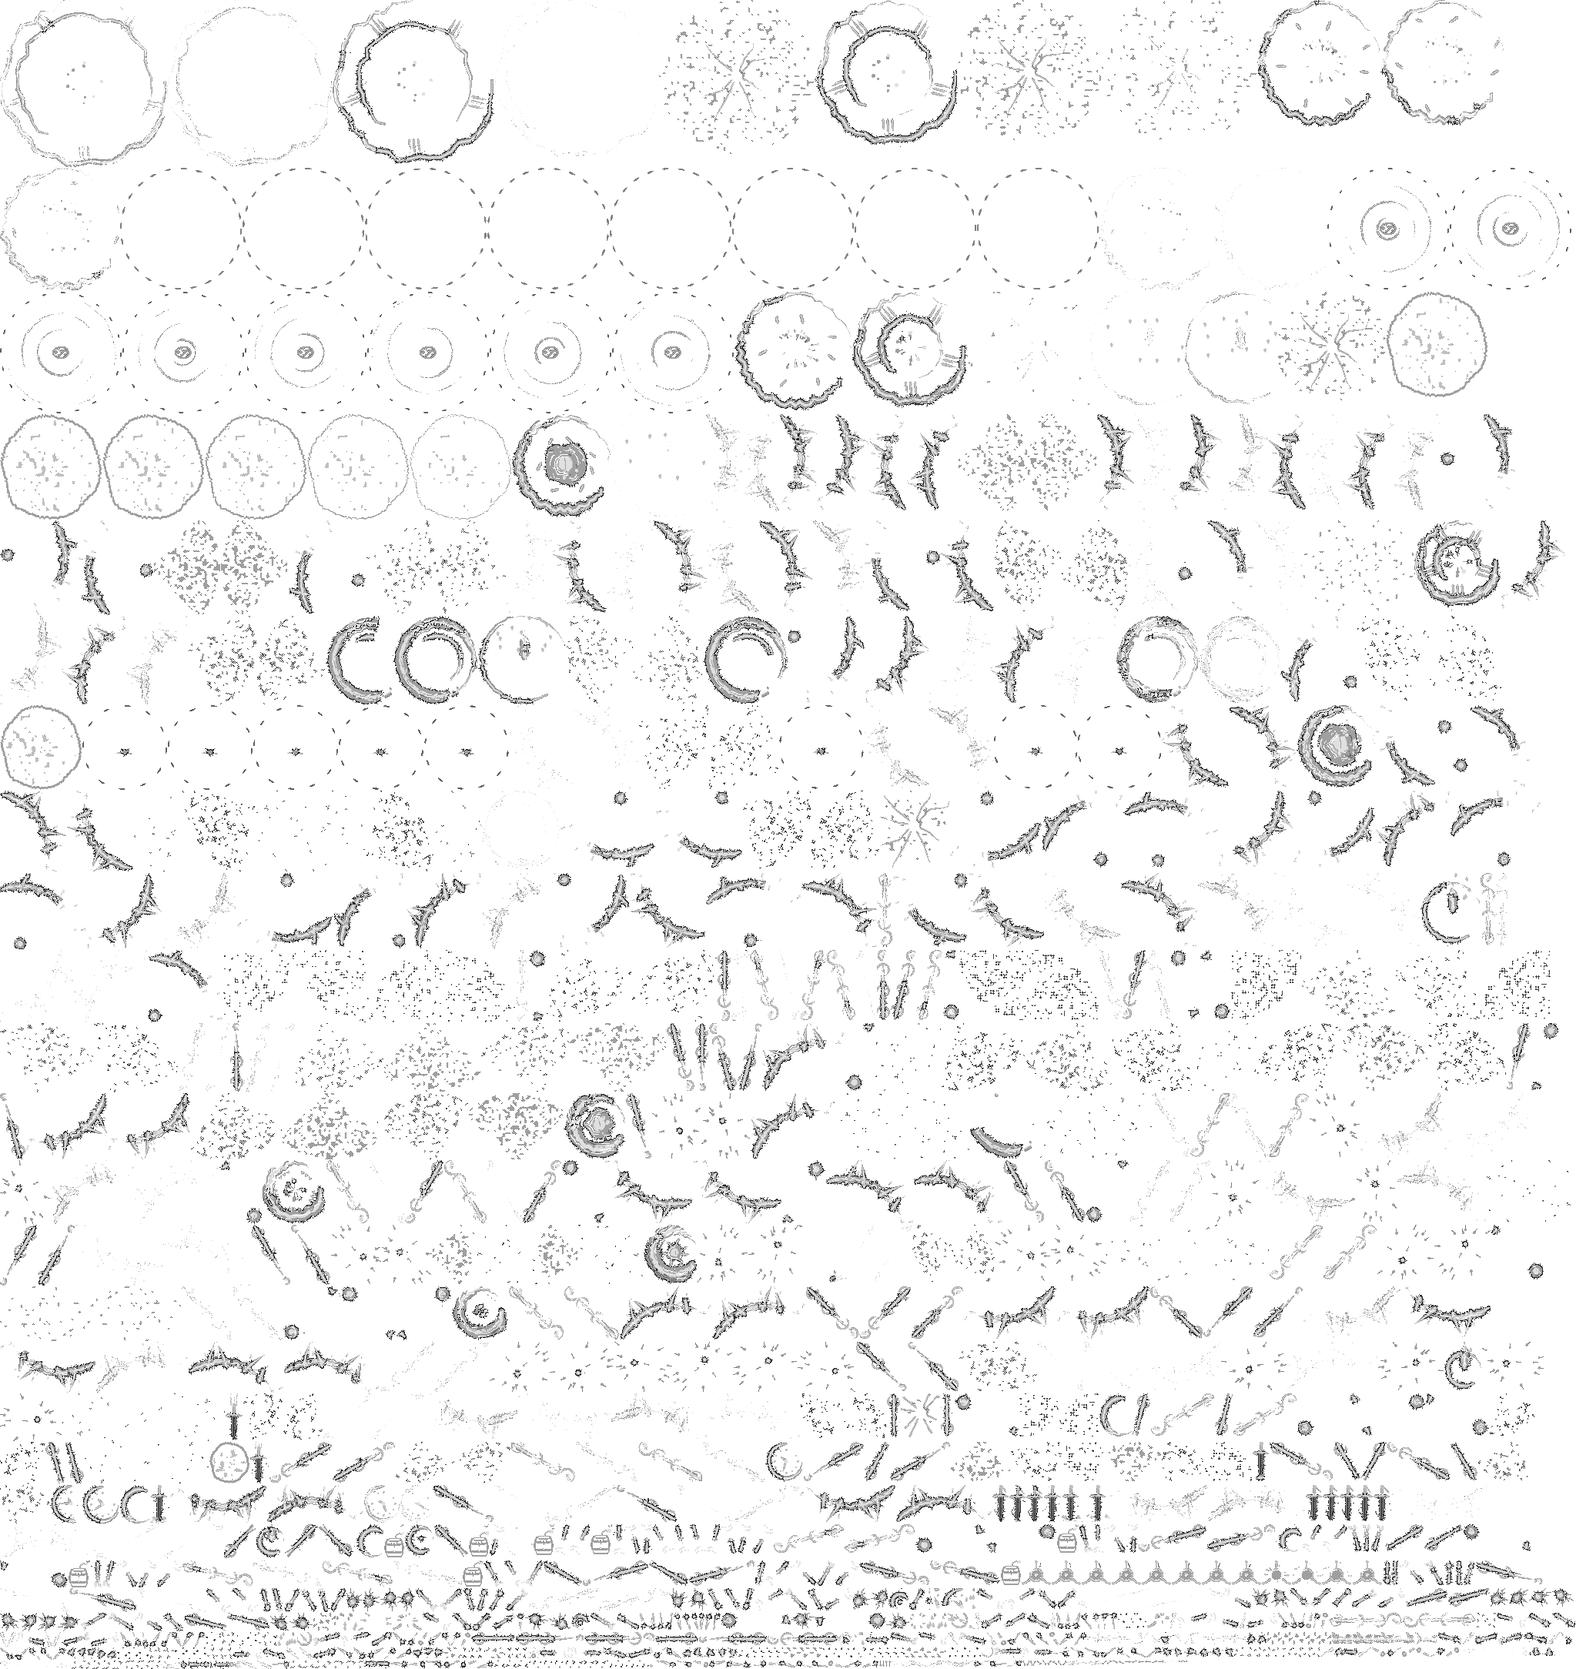
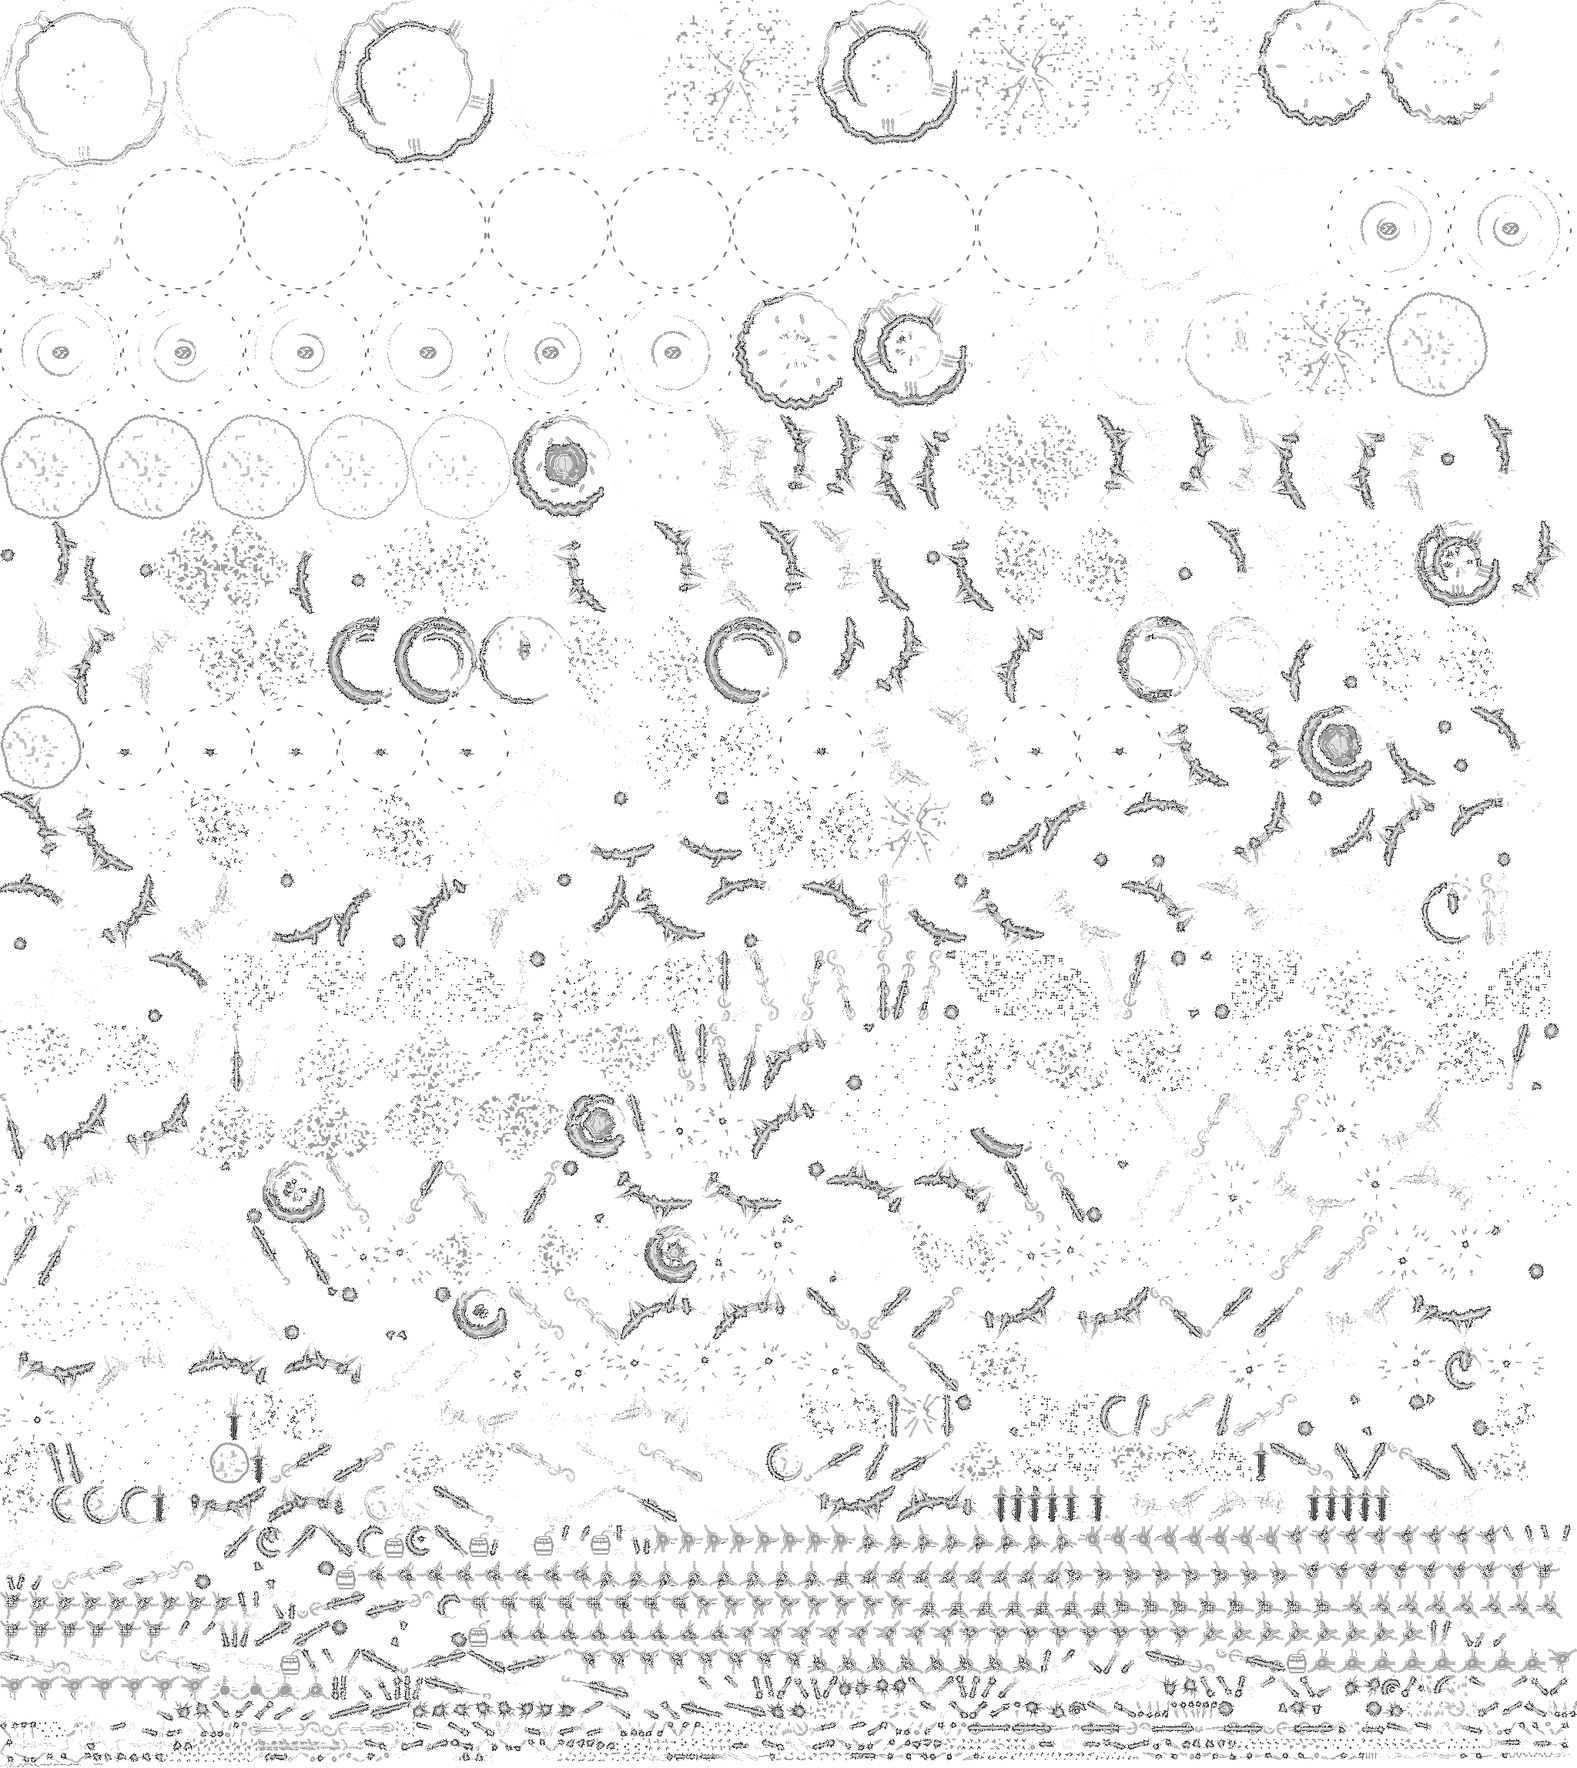
feat: 置いた砲台を狙う向きへ砲身を向けて描き、技の絵の網羅テストと資料を足す
Claude-Session: https://claude.ai/code/session_01HwQhmwscr3qGgsBCugZiZh

diff --git a/src/render/fxSkill.ts b/src/render/fxSkill.ts
@@ -10,7 +10,7 @@ import type { FxSheetKey } from "../data/fxSheets.gen";
 import { castElement } from "../skills/hit";
 import { SKILL, skillAttack } from "../skills/data";
 import { fieldRadius, mineRadius, wellRadius } from "../skills/placed";
-import { graveRadius, kegRadius, springRadius } from "../skills/summons";
+import { graveRadius, kegRadius, springRadius, turretAim } from "../skills/summons";
 import type { ActiveCast, CastParams, SkillKey } from "../skills/types";
 import { hookRange } from "../system/skills";
 import { type FxRampKey, type FxSpriteBank, fitScale, lifeFrame, loopFrame, sheetDef } from "./fxSprites";
@@ -24,6 +24,8 @@ interface Placed {
   params: CastParams;
   /** 不透明度（起動前の地雷は薄く。無ければ 1） */
   alpha?: number;
+  /** 向き（ラジアン。砲台の砲身が狙う向き。無ければ 0） */
+  angle?: number;
 }
 
 /** 起動前の地雷の不透明度（起動したら濃くなるのが「踏むと炸裂する」の合図） */
@@ -78,7 +80,7 @@ function variantChain(variant: string): string[] {
 }
 
 /** 行為の出来事の絵: 技の表 → 汎用の技の表の順に、細分 → 種類で探す（配色はその技の表で決める） */
-function actPieceOf(key: string, variant: string): SkillPiece | undefined {
+export function actPieceOf(key: string, variant: string): SkillPiece | undefined {
   const chain = variantChain(variant);
   for (const table of [SKILL_FX[key], isArtFxKey(key) ? SKILL_FX[ART_FX_KEY] : undefined]) {
     for (const v of chain) {
@@ -106,7 +108,8 @@ function placedOf(state: GameState): Placed[] {
   for (const m of rs.mines) add(m.pos, m.params, mineRadius(m.params), m.arm > 0 ? UNARMED_ALPHA : 1);
   for (const k of rs.kegs) add(k.pos, k.params, kegRadius(k.params));
   for (const g of rs.graves) add(g.pos, g.params, graveRadius(g.params));
-  for (const t of rs.turrets) add(t.pos, t.params, 0);
+  const aim = rs.turrets.length > 0 ? turretAim(state) : null;
+  for (const t of rs.turrets) out.push({ key: t.params.skillKey, pos: t.pos, size: 0, params: t.params, angle: aim ? Math.atan2(aim.y - t.pos.y, aim.x - t.pos.x) : 0 });
   for (const s of rs.springs) add(s.pos, s.params, springRadius(s.params));
   for (const s of rs.stakes) add(s.pos, s.params, 0);
   for (const z of rs.mires ?? []) add(z.pos, z.params, SKILL.mire.radius * z.params.areaMul);
@@ -229,7 +232,7 @@ function drawPlaced(ctx: CanvasRenderingContext2D, state: GameState, bank: FxSpr
     if (!fx || !loop || !sheet || !bank.has(sheet)) continue;
     const phase = ((it.pos.x * 7 + it.pos.y * 13) % 97) / 97;
     const frame = loopFrame(sheetDef(sheet).frames, state.time + phase * loop.period, loop.period);
-    bank.draw(ctx, sheet, frame, it.pos.x, it.pos.y, 0, { ramp: rampOf(fx, it.key, paramsElement(it.params)), scale: scaleOf(it.size, loop.base), alpha: it.alpha });
+    bank.draw(ctx, sheet, frame, it.pos.x, it.pos.y, it.angle ?? 0, { ramp: rampOf(fx, it.key, paramsElement(it.params)), scale: scaleOf(it.size, loop.base), alpha: it.alpha });
   }
 }
 

diff --git a/src/render/fxSprites.test.ts b/src/render/fxSprites.test.ts
@@ -6,7 +6,10 @@ import { MOVESETS, type MovesetKey } from "../data/weapons";
 import { FX_RAMP_KEYS, cellOf, fitScale, haloAlpha, lifeFrame, loopFrame, pickDir, rampColors, rampGlow, rampHalo, snapArt, swingFrame } from "./fxSprites";
 import { ART_FX_KEY, BULLET_FX, MOVESET_FX, SKILL_FX, type SkillFx, ULTIMATE_FX, ULT_ATLAS_SUFFIX, mirrorFlip, motionKey, rampOfElement, skillAtlas, swingMotionKeys } from "./fxMotions";
 import { LEGACY_SKILL_KEYS, SKILL_KEYS } from "../skills/types";
+import { COMMON_ART_KEYS } from "../skills/arts/keys";
+import { ART_ACT_KINDS } from "../skills/arts/types";
 import { ultPiece } from "./fxUltimate";
+import { actPieceOf } from "./fxSkill";
 import { BULLETS } from "../loot/bullets";
 import { BASES, baseFamily } from "../loot/bases";
 import { movesetCasts } from "../data/weapons";
@@ -359,9 +362,33 @@ describe("fxMotions: スキル石の絵の表", () => {
 });
 
 describe("fxMotions: 全スキル石の網羅", () => {
-  it("どのスキル石も専用の絵を持つ（技は対象外。技は行為の輪・線・弾で描く）", () => {
-    const missing = LEGACY_SKILL_KEYS.filter((key) => !SKILL_FX[key]);
+  it("どのスキル石も専用の絵を持つ（手書きと技の両方）", () => {
+    const missing = [...LEGACY_SKILL_KEYS, ...COMMON_ART_KEYS].filter((key) => !SKILL_FX[key]);
     expect(missing).toEqual([]);
+  });
+
+  it("汎用の技の絵はどの行為の種類も描け、弾の絵を持つ（武器の型で行為の種類が変わっても絵が出る）", () => {
+    const generic = SKILL_FX[ART_FX_KEY];
+    for (const kind of ART_ACT_KINDS) expect(generic?.acts?.[kind], `@art acts.${kind}`).toBeDefined();
+    expect(generic?.fly, "@art fly").toBeDefined();
+  });
+
+  it("技の行為の絵は 技の細分 → 技の種類 → 汎用の細分 → 汎用の種類 の順に引く", () => {
+    const generic = SKILL_FX[ART_FX_KEY];
+    // 旋風斬りは輪だけを持つ: 輪は自分の絵、扇は汎用の絵
+    expect(actPieceOf("commonWhirl", "ring")).toBe(SKILL_FX.commonWhirl?.acts?.ring);
+    expect(actPieceOf("commonWhirl", "arcWide")).toBe(generic?.acts?.arcWide ?? generic?.acts?.arc);
+    // 手書きのスキルは汎用の絵に落ちない
+    expect(actPieceOf("parry", "ring")).toBeUndefined();
+  });
+
+  it("技の表の acts は行為の種類（と細分）の名前だけを持つ", () => {
+    const kinds: readonly string[] = ART_ACT_KINDS;
+    for (const key of [...COMMON_ART_KEYS, ART_FX_KEY]) {
+      for (const variant of Object.keys(SKILL_FX[key]?.acts ?? {})) {
+        expect(kinds, `${key} acts.${variant}`).toContain(/^[a-z]+/.exec(variant)?.[0] ?? variant);
+      }
+    }
   });
 });
 

diff --git a/src/skills/summons.ts b/src/skills/summons.ts
@@ -228,11 +228,16 @@ export function onTurretShoot(state: GameState): void {
   fireTurrets(state, state.skills.turrets);
 }
 
+/** 砲台が狙う所: 号令の狙いの敵、無ければ自分の向きの先（撃つ処理と、置いてある砲台の砲身の向きの描画が読む） */
+export function turretAim(state: GameState): Vec {
+  const p = state.player;
+  return focusTarget(state)?.body.pos ?? add(p.body.pos, scale(p.facing, SKILL.turret.aimReach));
+}
+
 /** 砲台ごとに自分の向きの先（号令の狙いがあればその敵）を狙って 1 発（射撃に合わせる・鈴の打ち鳴らしの命令） */
 function fireTurrets(state: GameState, turrets: readonly Turret[]): void {
   const t = SKILL.turret;
-  const p = state.player;
-  const aim = focusTarget(state)?.body.pos ?? add(p.body.pos, scale(p.facing, t.aimReach));
+  const aim = turretAim(state);
   for (const tur of turrets) {
     spawnShot(state, tur.pos, sub(aim, tur.pos), tur.params, {
       effect: "turret",

diff --git a/docs/ideas/fx-sprites.md b/docs/ideas/fx-sprites.md
@@ -180,20 +180,28 @@
 - 奥義が出した輪・線・粒には印が付き（`withUltimateFx`）、絵が読めていれば手続きの描画を省く。奥義名の浮き文字は残す
 - 配色は奥義の素性の属性、無ければ表の `ramp`（既定は光）
 
-## 10. スキル石（2026-09-28）
+## 10. スキル石と技（2026-09-28。2026-10-03 に墨で作り直し）
 
-絵は **スキル名と説明から連想できるもの** にする（ユーザーの指示）。旋風斬りは体の周りを回る刃の渦と巻く風、撃ち抜きは照準で光を溜めて壁まで貫く螺旋の光条、氷結地帯は霜の結晶の網目が張った凍った床、突進斬りは踏み込みの衝撃と斬り抜けの一閃。
+絵は **スキル名と説明から連想できるもの** にする（ユーザーの指示）。2026-10-03 にゲームの主題が墨に決まったので、通常攻撃（3.5・3.6）に倣って **墨の筆で書いた絵** に作り直した（ユーザーが見本 4 本を承認: 旋風斬り = 体を巡る円相、撃ち抜き = 一文字と止めの飛沫、突進斬り = 飛白の通り道と払い、氷結地帯 = 一滴の墨が滲み広がる床と氷の割れ目の筆）。
 
-- アトラス（`scripts/fx/sheets/skill<群>.mjs`）: 見本 4 本は形ごと（`skillArea` 旋風斬り・`skillShot` 撃ち抜き・`skillPlaced` 氷結地帯・`skillMove` 突進斬り）、残り 72 本は処理のファイルの群ごとに並列で制作（2026-09-28）: `skillBase`（基本 10 本）・`skillExtraA`（拡張の前半 16 本）・`skillExtraB`（拡張の後半と召喚・設置 17 本）・`skillWave2`（第 2 弾 21 本）・`skillForm`（変身 8 本）。実行時は装備中の石のアトラスだけを読む（`renderer.ts` の `focus` と `equippedSkillKeys`）。全スキル石が絵を持つことは `render/fxSprites.test.ts` が固定する（技は対象外）
-- 表は `fx.skills`（スキルの key → `{ ramp, cast, act, end, active, placed }`。`render/fxMotions.ts` の `SkillFx`）
-  - 出来事（`EffectsState.skills`。`system/effects.ts` の `addSkillFx`）: `cast` = 発動・設置した瞬間、`act` = 1 回の行為（撃ち抜きのビーム 1 本）、`end` = 終わり（突進の止まった所・場が消える）。`pos` / `to` / `angle` / `size`（半径）/ `element`（刻印符で差し替わる属性 → 配色）を持つ
-  - 1 つの絵は奥義の絵と同じ `{ sheet, life, base, pivot, ground? }` に、`beam`（`pos` → `to` に `step` px ごとに並べる帯。区間のシートは向き 0 だけを描き、実行時に実際の角度へ回して並べる。15° 刻みの向きに丸めると斜めで階段状に折れるため。`FxSpriteBank.drawStrip`）と `tip`（`to` に置く着弾）を足せる
-  - `active`: 発動中（`state.skills.active` の本動作）。進み具合でフレームを流す。大きさは `render/fxSkill.ts` の `ACTIVE_SIZE`
-  - `placed`: 置いてある間（場・設置物）。`period` 秒で繰り返す。置いてある物の一覧は `fxSkill.ts` の `placedOf`（スキルを足すときにその設置物を足す）
-- 絵が読めたスキルは、手続きの描画を省く: スキルの処理が出す輪・線・粒を `withSkillFx` で狭く囲んで印を付け（命中・撃破の粒まで消さないよう、演出の呼び出しだけを囲む）、`skillHud.ts` の発動中・場の描画はスキルの key で飛ばす（撃ち抜きの照準線は狙いの表示なので残す）
-- 反響の残像（旋風斬りの残像など）は発動中の絵を持たないので、手続きの輪のまま
-- 置いてある物・飛んでいる物・纏い（`placed` / `fly` / `aura`）は、スキルのコードを触らずに表に書くだけで描ける（`fxSkill.ts` の `placedOf` / `movingOf` / `aurasOf`。どのスキルの物かは発動の値の `skillKey`）。弾は半径で拡縮し（`fly.base`）、投げた手榴弾は放物線の高さで描いて影は床に置く
-- 配色は表の `ramp`（スキルに合わせて選んだ色）を基本に、刻印符で属性が素性から差し替わったときだけその属性の配色にする（血抜きの血は闇の素性でも赤）。五彩の礫は礫ごとの共鳴の色
-- 遊びの情報は絵があっても残す: 撃ち抜き・墜星・手繰り糸の狙いと落下点（`skillHud.ts` の `KEEP_TELEGRAPH`）、雷の落ちるまでの残り（縮む輪）、投げた手榴弾の落ちる所の輪、結界杭 3 本の内側の塗り。起動前の地雷は薄く描く
-- テスト: `render/fxSprites.test.ts`（表のスキルが実在し、絵が `skill<形>` のアトラスに載り、行が壊れていない）、`system/effects.test.ts`（出来事の寿命・階の切り替え・印）
+### 10.1 墨の描き方（`scripts/fx/brush.mjs`）
 
+- 部品: `brushStroke`（一筆。入りで押して太く、払いで尖る筆圧・書き進み `grow`・掠れ `dry` / `fade`・平らな端 `flat`）、`enso`（円相）、`arcPoints`、`splatter`（墨の飛沫）、`inkBlot`（墨だまり）、`inkWash`（滲みの床。縁は墨だまり、内側は間引いたむら）、`lv(段)`（段 → `paint` の明るさ）
+- 段の使い方: 筆の本体は段 5、縁は段 4、芯の細い筋だけ段 7。墨の配色では段 1〜5 が黒（無属性は段 1〜2 が淡墨）で、属性つきは段 6〜7 だけが差し色になるので、面を段 6〜7 で塗ると色の板になって墨に見えない。差し色は芯・粒・間引いたむらに限る
+- 光る・きらめく・白い芯の表現は使わない。敵の予告（濃墨 + 朱の点 + 胡粉の白）と紛れないよう朱と白も使わない（プレイヤーの絵はコマが進むことで分かれる）
+- beam の 1 区間のシートは `ink: false`（墨の筆致の仕上げを掛けると区間の継ぎ目に縁が出て数珠つなぎに見える）
+- 語彙: 斬る = 一筆、周りの範囲 = 円相、帯 = 一文字 + 止め、移動 = 飛白、弾 = 墨の雫と筆の尾、場 = 滲み、自己強化 = 体を巡る筆の渦・立ち昇る煙、爆発 = 墨だまりが割れて飛沫、印 = 墨の角印・丸印、召喚物・設置物 = 墨の線画
+
+### 10.2 アトラスと表
+
+- 手書きスキル 45 本（`skillBase` 基本・`skillExtraA` / `skillExtraB` 拡張・`skillWave2` 第 2 弾・`skillForm` 変身・`skillPlaced` 氷結地帯）と技 60 種（`skillArt` 見本 3 本と汎用の技の絵 `@art`・`skillArtA` / `B` / `C` / `D` に 14〜15 種ずつ）。実行時は装備中の石のアトラスだけを読み、技は汎用の絵のアトラスも読む（`fxMotions.ts` の `skillAtlases`）。全スキル石が絵を持つことは `render/fxSprites.test.ts` が固定する
+- 表は `fx.skills`（スキルの key → `{ ramp, cast, act, end, active, placed, fly, aura, acts }`。`render/fxMotions.ts` の `SkillFx`）
+  - 出来事（`EffectsState.skills`。`system/effects.ts` の `addSkillFx`）: `cast` = 発動・設置した瞬間、`act` = 1 回の行為、`end` = 終わり。`pos` / `to` / `angle` / `size`（半径など）/ `element`（刻印符で差し替わる属性 → 配色）/ `variant`（技の行為の絵の選び分け）を持つ
+  - 1 つの絵は奥義の絵と同じ `{ sheet, life, base, pivot, ground? }` に、`beam`（`pos` → `to` に `step` px ごとに並べる帯。区間は向き 0 だけを描き、実行時に実際の角度へ回して並べる。`FxSpriteBank.drawStrip`）と `tip`（`to` に置く絵）を足せる
+  - `active`: 発動中（`state.skills.active` の本動作）。大きさは `render/fxSkill.ts` の `ACTIVE_SIZE`
+  - `placed` / `fly` / `aura`: 置いてある間・飛んでいる間・纏い。スキルのコードを触らずに表に書くだけで描ける（`fxSkill.ts` の `placedOf` / `movingOf` / `aurasOf`。どのスキルの物かは発動の値の `skillKey`）。砲台は狙う所（`skills/summons.ts` の `turretAim`）へ砲身を向けて描く
+  - `acts`: 技の行為ごとの絵（`acts[variant]`）。技の処理（`skills/arts/engine.ts` の `actFx`）が行為ごとに出来事を積む。variant は `arc`（160° 未満）/ `arcWide`（160〜300°）/ `arcFull`（300° 以上）/ `ring` / `ringTarget`（照準地点）/ `line` / `dash` / `dashBack` / `blink` / `shot` / `chain` / `pull` / `buff` / `detonate`。細分が無ければ種類の絵、技の表に無い種類（武器の型で行為の種類が変わったときなど）は汎用の技の絵（表の key `@art`）で描く。手書きのスキルも `acts` を持てる（狼化の噛みつき `bite`・鉄塊化の重い振り `swing`。`skills/forms.ts` の `noteShapeSwing` が振りの active の瞬間に積む）
+- 絵が読めたスキルは手続きの描画を省く: スキルの処理が出す輪・線・粒を `withSkillFx` で狭く囲んで印を付け（命中・撃破の粒まで消さないよう、演出の呼び出しだけを囲む）、`skillHud.ts` の発動中・場の描画はスキルの key で飛ばす。照準地点に遅れて落ちる技の予兆の輪は遊びの情報なので手続きのまま残す
+- 配色は表の `ramp`（素性の属性に合わせる。無属性は `steel`）。刻印符で属性が素性から差し替わったとき、汎用の技の絵で描くときは、その属性の配色にする（`fxSkill.ts` の `rampOf`）
+- 遊びの情報は絵があっても残す: 雷の残り・結界杭 3 本の内側の塗り。起動前の地雷は薄く描く
+- テスト: `render/fxSprites.test.ts`（表のスキルが実在し、絵が `skill<形>` のアトラスに載り、行が壊れていない・全スキル石の網羅・汎用の技の絵が全行為の種類を持つ）、`system/effects.test.ts`（出来事の寿命・階の切り替え・印）
